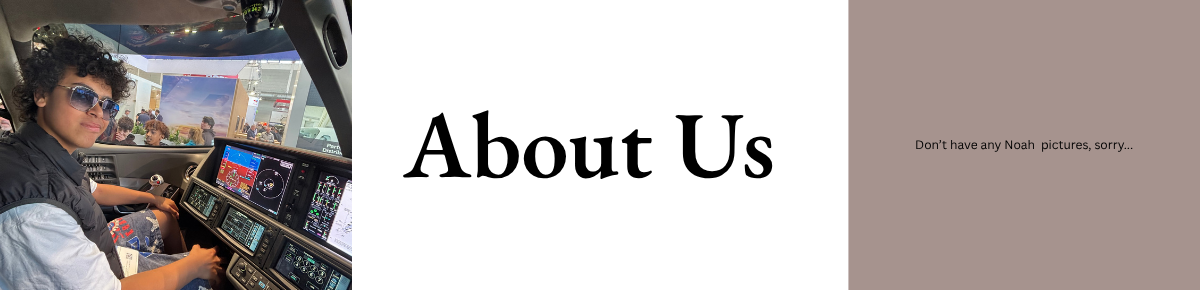
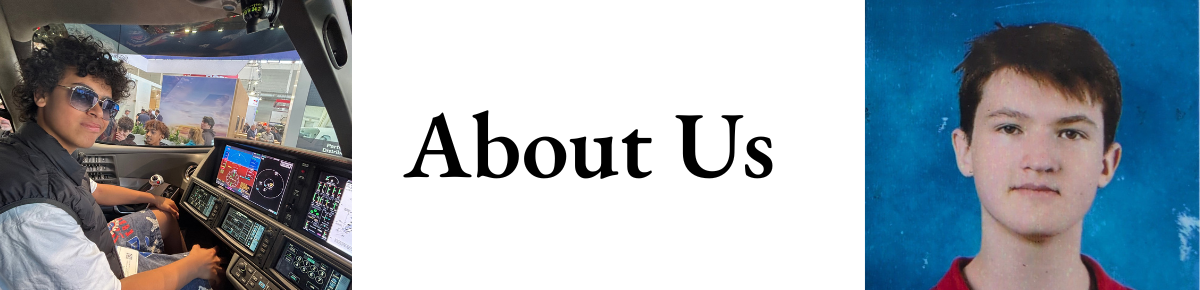
final hand in.

Changed region(s): [[0.7092, 0.0, 1.0, 1.0], [0.6167, 0.5586, 0.6475, 0.5897], [0.3392, 0.5276, 0.37, 0.5586]]

diff --git a/website-getstarted.html b/website-getstarted.html
@@ -20,65 +20,34 @@
                 <h2>Download Fleeter</h2>
                 <p>Ready to take control? Download Fleeter now and experience the ultimate remote locking solution. Click the button below to get started.</p>
                 <button class="download-button">
-                    <a href="https://github.com/resyntax"><i class="fa fa-download"></i> Download Now</a>
+                    <a href="login.html"><i class="fa fa-download"></i> Start Now!</a>
                 </button>
             </div>
             <div class="wiki">
                 <div class="wiki-step">
                     <h2>What is Fleeter?</h2>
-                    <p>Fleeter is a lightweight, real-time remote device management system designed to let an administrator monitor and control a fleet of computers from a single web-based dashboard. The core idea is simple: you have a set of machines you want to manage, and you want to be able to see their status and lock or unlock their screens instantly, from anywhere on the network, without physically touching them.</p>
-                    <p>The name "fleet" refers to the collection of managed devices. Each device in the fleet runs a small background agent that keeps it connected to a central server. The administrator connects to that same server through a web dashboard and issues commands. Everything happens in real time over a persistent WebSocket connection, meaning there is no polling, no page refreshing, and no noticeable delay between sending a command and seeing it take effect on the target machine.</p> 
+                    <p>Fleeter came about because of a need to remotely control a group of class computers. We were unhappy with the existing apps and decided to replicate the DFG systems, in a more professional way than what we are used to. Enforcers (admins) can connect to Fleet devices and block their screens.</p> 
                 </div>
                 <div class="divider">
                     <hr>
                 </div>
                 <div class="wiki-step">
-                    <h2>Architecture Overview</h2>
-                    <p>Fleeter is split into three distinct components that each play a specific role. They are FleeterManager, FleeterServer, and FleeterPanel. These three pieces are designed to work together but remain independent — each one can be developed, updated, or replaced without breaking the others, as long as the communication protocol between them stays consistent.</p>
-                    <p>The general flow is as follows. FleeterManager runs on each managed device and stays connected to FleeterServer. FleeterPanel is opened by the administrator in a browser and also connects to FleeterServer. The server sits in the middle and routes information between the two sides. The administrator never communicates directly with the managed devices — everything goes through the server.</p>
-                    <h2>Components</h2>
-                    <h3>FleeterManager</h3>
-                    <p>FleeterManager is the client agent. It is a Python application that is installed and run on every machine you want to manage. Once started, it reads a configuration file to find the server address, loads an authentication token, and opens a persistent WebSocket connection to the server on the /fleet namespace.</p>
-                    <p>From that point on, FleeterManager does two things on a continuous loop. First, it sends a heartbeat to the server every second. This heartbeat is a small message containing the device's current blocked status — essentially the machine checking in to say "I am here and this is my current state." Second, it listens for incoming control commands from the server. When a command arrives telling it to block, it suppresses all keyboard and mouse input using the pynput library and simultaneously launches a full-screen dark window using tkinter to cover the display. When a command arrives telling it to unblock, it reverses both of those actions.</p>
-                    <p>The blocking mechanism is intentionally layered. Input suppression alone might not be enough if the user finds a way to interact with the system through another means, so the visual overlay reinforces it. The overlay runs in a completely separate process rather than a thread, which means it is resilient — even if the main application encounters an issue, the blocking window stays up until explicitly told to close.</p>
-                    <p>Authentication is handled through JWT tokens. Each device has a token file stored locally in the res/ directory. When connecting to the server, FleeterManager passes this token as part of the connection handshake. The server verifies it against a database of registered devices before allowing the connection. If the token is invalid or expired, the connection is refused.</p>
-                    <p>FleeterManager will automatically attempt to reconnect if the server goes down or the connection drops. The reconnection interval is configurable in res/config.ini.</p>
-                    <h3>FleeterServer</h3>
-                    <p>FleeterServer is the backbone of the system. It is an asynchronous Python server built on Socket.IO and Uvicorn. It runs locally on port 3030 and handles all communication between FleeterManager instances and FleeterPanel. It does not have any HTTP endpoints — all communication is event-based over WebSocket.</p>
-                    <p>The server maintains two namespaces. The /fleet namespace is where managed devices connect. The /enforcer namespace is where the administrator's dashboard connects. These two namespaces are kept separate so that fleet devices and admin clients never directly interact with each other — the server mediates everything.</p>
-                    <p>When a fleet device sends a heartbeat, the server receives it, updates that device's state in memory, and forwards the heartbeat to any connected enforcer clients. This is how the dashboard gets live status updates. When an enforcer client sends a fleet_control command, the server looks up the target devices, finds their active socket sessions, and forwards the command to each one as a control event. The fleet devices receive it and act on it immediately.</p>
-                    <p>Device state is kept in memory in a structure called SessionTracker. This means it is not persisted to disk — if the server restarts, all session state is lost and devices need to reconnect to re-establish their presence. Connected devices are tracked by both their socket session ID and their fleet device ID, allowing lookups from either direction.</p>
-                    <p>The server also manages two separate databases. One is for fleet device registration and JWT token management. The other is for admin user authentication, storing usernames and Argon2-hashed passwords. Both are SQLite databases. A command-line tool called fleeter_cli.py is provided for managing these databases, registering new devices, generating tokens, and setting up the server's cryptographic keys.</p>
-                    <h3>FleeterPanel</h3>
-                    <p>FleeterPanel is the administrator's dashboard. It is a web application built with HTML, CSS, and Python via PyScript. PyScript allows Python code to run directly in the browser using WebAssembly, which means the dashboard logic is written in Python rather than JavaScript, with the exception of the Socket.IO connection which relies on the JavaScript Socket.IO client library loaded from a CDN.</p>
-                    <p>The dashboard consists of two pages. The login page asks for the server IP address, an email, and a password. On submission, it attempts to connect to the server's /enforcer namespace. If the connection succeeds, the server IP is saved to the browser's localStorage and the user is redirected to the main dashboard. If it fails, an error is shown.</p>
-                    <p>The main dashboard page connects to the server on load and begins listening for heartbeat events forwarded from fleet devices. Each time a heartbeat arrives from a device that has not been seen before, a new tile is generated dynamically and added to the grid. Each time a heartbeat arrives from a known device, the tile's status indicator is updated in real time. Tiles are colour-coded by index and display the device ID and current status.</p>
-                    <p>Clicking a tile flips it over with a 3D animation and opens a sidebar panel on the right side of the screen. The sidebar displays the device's full ID, its current status, and a block or unblock button depending on its current state. Pressing the button sends a fleet_control event to the server targeting that specific device, which then relays it as a control command to the fleet agent running on that machine. The sidebar and tile status update immediately to reflect the new state without waiting for the next heartbeat.</p>
-                </div>
-                <div class="divider">
-                    <hr>
-                </div>
-                <div class="wiki-step">
-                    <h2>Communication Protocol</h2>
-                    <p>All communication in Fleeter uses the Socket.IO protocol over WebSocket. The following events define the entire protocol contract.</p>
-                    <p>On the /fleet namespace, fleet devices send a heartbeat event every second with the payload {"blocked": bool}. The server receives this and forwards it to enforcer clients as {"device_id": string, "blocked": bool}. The server also sends a control event to fleet devices when triggered by an enforcer command. The payload is {"blocked": bool}, and the device acts on it immediately.</p>
-                    <p>On the /enforcer namespace, the dashboard sends a fleet_control event to issue commands. The payload structure is {"devices": [device_id_1, device_id_2, ...], "orders": {"control": {"blocked": true or false}}}. The devices array specifies which machines to target. The orders dictionary specifies what commands to send — the key becomes the event name sent to the fleet device, and the value becomes the payload. This design means the protocol is extensible: new command types can be added simply by defining new keys in orders, as long as FleeterManager is updated to handle them.</p>
-                    <p>Authentication on the /fleet namespace is enforced through JWT tokens passed in the Socket.IO auth field at connection time. Authentication on the /enforcer namespace is defined in the server but is not yet enforced in the current implementation, meaning any client can connect to it without credentials.</p>
-                </div>
-                <div class="divider">
-                    <hr>
-                </div>
-                <div class="wiki-step">
-                    <h2>Setup and Deployment</h2>
-                    <p>To deploy Fleeter, the server must be set up first. This involves running the CLI tool to generate SSL certificates, create the JWT keypair, and initialise both databases. Fleet devices must be registered by UUID using the CLI, and a token file must be generated for each one and distributed to the corresponding machine. The FleeterManager application on each machine must have its config.ini pointing to the correct server address.</p>
-                    <p>FleeterPanel does not require installation. It is a static web application that can be opened directly in a browser. The server IP is entered at login time, making it portable — the same dashboard files can be used to connect to any Fleeter server by simply entering a different IP address.</p>    
-                </div>
-                <div class="divider">
-                    <hr>
-                </div>
-                <div class="wiki-step">    
-                    <h2>Summary</h2>
-                    <p>Fleeter is a practical, event-driven remote device management system built around a simple protocol. A background agent on each managed machine maintains a live connection to a central server and reports its state every second. An administrator opens a web dashboard that connects to the same server, receives those status updates in real time, and can lock or unlock any machine with a single click. The architecture is deliberately minimal — three components, one protocol, and a clear separation of responsibilities between them.</p>
+                    <h2>Fleeter Components</h2>
+                    <h3>Server</h3>
+                    <p>Fleeter Server is the core of Fleeter. It is where both the Enforcers and the Fleet connect and manages information exchange between the two. It is made up of custom and off the shelf solutions.</p>
+                    <p>Fleeter app is an asynchronous socket.io server that handles inbound and outbound traffic.</p>
+                    <p>Keycloak is an authentication server that verifies credentials of enforcers.</p>
+                    <p>Postgres stores the Keycloak data.</p>
+                    <p>nginx proxies all this traffic into one port to permit easier management and connection attempts. This is all managed by a compose instance (podman and docker compatible).</p>
+                    <p>The off the shelf solutions were intentionally chosen as this is how many corporations operate. Programming everything from scratch is useful for learning, but a product's only value is how it functions. Specialised software is often more secure and well maintained.</p>
+
+                    <h3>Manager</h3>
+                    <p>Managers manage the Fleet by running on the devices. It is a simple asynchronous socket.io client that connects via the /fleet namespace. The client is authenticated with a JWT token encrypted and issued by the server; it contains key connection info.</p>
+                    <p>To block the devices, a tkinter (chosen for compatibility) window is used as a visual block and pynput halts mouse and keyboard input. Managers send a heartbeat to the server every second, notifying it of their status.</p>
+
+                    <h3>Panel</h3>
+                    <p>The panel is a python based web app running on pyscript, a cutting edge WASM based javascript alternative. It however does rely on the socket.io javascript client. It is portable and can be used locally or remotely.</p>
+                    <p>To authenticate with the Fleeter Server, it connects to the exposed keycloak instance and uses user credentials to issue a token, which it then passes to the socket.io connection request. It communicates to the server on the /enforcer namespace.</p>
                 </div>
             </div>
         </div>

diff --git a/website-about.html b/website-about.html
@@ -26,8 +26,8 @@
                         <h2>Matthias Muhl</h2>
                     </div>
                     <div class="dev-text">
-                        <p>Matthias is a software developer with a passion for creating innovative solutions to complex problems. With a background in computer science and a knack for thinking outside the box, Matthias has been instrumental in the development of Fleeter, bringing his expertise in network programming and security to the project.</p>
-                        <p>When he's not coding, Matthias enjoys exploring new technologies, contributing to open-source projects, and sharing his knowledge with the developer community. His dedication to creating user-friendly and efficient software has been a driving force behind the success of Fleeter.</p>
+                        <p>Matthias is a newbie to the development world, but with already a solid background in scripts like HTML and CSS, as well as a genuine interest in web development, he therefore fits perfectly into this project's UI development.</p>
+                        <p>When he's not coding, Matthias enjoys taking time for his other hobbies, like video games, tennis, reading and flying light aircraft.</p>
                     </div>
                 </section>
                 <section>
@@ -36,8 +36,7 @@
                         <h2>Noah M?</h2>
                     </div>
                     <div class="dev-text">
-                        <p>Noah is a software developer with a passion for creating innovative solutions to complex problems. With a background in computer science and a knack for thinking outside the box, Noah has been instrumental in the development of Fleeter, bringing his expertise in network programming and security to the project.</p>
-                        <p>When he's not coding, Noah enjoys exploring new technologies, contributing to open-source projects, and sharing his knowledge with the developer community. His dedication to creating user-friendly and efficient software has been a driving force behind the success of Fleeter.</p>
+                        <p>Noah is a hobbyist programmer who wants to use and apply his skills in the future.</p>
                     </div>
                 </section>
             </div>

diff --git a/login.html b/login.html
@@ -1,4 +1,3 @@
-<!--Commit 29/05: This Page grew up and is no longer a mockup. Added the Socketio and pyscript libraries figuring it out along pyodide is a hastle, and I still don't quite understand them right now. I'll have to dig in. I also added a logo. This page is likely to not be modified further in the forseeable future.-->
 <!DOCTYPE html>
 <html lang="en">
 <head>
@@ -32,12 +31,12 @@
                     <div class="error-message" id="ipError">Please enter a valid IP</div>
                 </div>
                 <div class="form-group">
-                    <label for="email">Email Address</label>
+                    <label for="email">Username</label>
                     <div class="input-with-icon">
-                        <i class="fa fa-envelope"></i>
-                        <input type="email" id="email" class="form-control" placeholder="Enter your email" required>
+                        <i class="fa fa-user"></i>
+                        <input type="text" id="email" class="form-control" placeholder="Enter your username" required>
                     </div>
-                    <div class="error-message" id="emailError">Please enter a valid email address</div>
+                    <div class="error-message" id="emailError">Please enter a valid username</div>
                 </div>
                 <div class="divider"></div>
                 <div class="form-group">
@@ -51,7 +50,7 @@
                             </div>
                         </button>
                     </div>
-                    <div class="error-message" id="passwordError">I'm sure you can think of something more creative you imbecile</div>
+                    <div class="error-message" id="passwordError">Please enter your password.</div>
                 </div>
                 <button type="submit" class="button" id="loginButton">
                     <i class="fa fa-sign-in"></i>

diff --git a/login.css b/login.css
@@ -1,4 +1,3 @@
-/*Commit 29/05: Didn't update the CSS here, likely never will*/
 :root {
     --primary-color:#570987;
     --secondary-color:#41cbf9;
@@ -61,7 +60,7 @@ body {
     position: absolute;
     width: 300px;
     height: 300px;
-    background: rgba(197, 198, 254, 0.5); /* accent color added manually because fuck me*/
+    background: rgba(197, 198, 254, 0.5);
     border-radius: 50%;
     top: -100px;
     right: -100px;
@@ -72,7 +71,7 @@ body {
     position: absolute;
     width: 300px;
     height: 300px;
-    background: rgba(197, 198, 254, 0.5); /* accent color added manually because fuck me*/
+    background: rgba(197, 198, 254, 0.5);
     border-radius: 50%;
     top: -100px;
     right: -100px;
@@ -111,7 +110,7 @@ h2{
 .form-group label{
     display: block;
     margin-bottom: 8px;
-    font-weight: 500; /* don't ask me what ts does*/
+    font-weight: 500;
     color: var(--dark-text-color);
 }
 
@@ -169,7 +168,7 @@ h2{
     right: 15px;
     top: 50%;
     transform: translateY(-50%);
-    cursor: pointer; /* makes it look all clicky */
+    cursor: pointer;
     color: var(--gray-text-color);
 }
 
@@ -183,7 +182,7 @@ h2{
     border-radius: var(--border-radius);
     font-size: 18px;
     font-weight: 600;
-    cursor: pointer; /*clicky click*/
+    cursor: pointer;
     transition: background-color 0.3s ease;
     margin-bottom: 15px;
 }

diff --git a/login.py b/login.py
@@ -1,14 +1,14 @@
 import js
+import asyncio
 from pyodide.ffi import create_proxy, to_js
 from pyscript import window, document
 from urllib.parse import urlencode
 
-#Should run when the user hits "Sign In":
+def sign_in(event):
+    event.preventDefault()
+    asyncio.ensure_future(_sign_in_async(event))
 
-print("hello")
-
-async def sign_in(event):
-    event.preventDefault()  # Stops the form from submitting and refreshing the page
+async def _sign_in_async(event):
 
     ip       = document.getElementById("ip").value.strip()
     email    = document.getElementById("email").value.strip()
@@ -37,7 +37,6 @@ async def sign_in(event):
     btn.textContent = "Connecting..."
     btn.disabled = True
     
-    #Asking Keycloak for a tokenn
     print("[Login] Requesting token from Keycloak...")
     token_url = f"http://{ip}:7777/keycloak/realms/fleeter-server/protocol/openid-connect/token"
     body= urlencode({
@@ -45,6 +44,7 @@ async def sign_in(event):
         "client_id": "fleeter-panel",
         "username": email,
         "password": password,
+        "scope": "openid profile",
     })
 
     try:
@@ -66,7 +66,6 @@ async def sign_in(event):
         document.getElementById("ipError").textContent = "Failed to authenticate with Keycloak."
         return
     
-    #Connect to Socketio with the token 
     print("[Login] Connecting to Socket.IO server...")
     socket = window.io(f"http://{ip}:7777/enforcer", to_js({
         "path":        "/socket",
@@ -74,8 +73,6 @@ async def sign_in(event):
         "timeout":      5000,
         "auth":         {"token": token}
     }))
-
-    print("hello")
 
     def on_connect():
         print("[Login] Connected! Redirecting to dashboard...")

diff --git a/dashboard.py b/dashboard.py
@@ -2,8 +2,7 @@ import js
 from pyscript import window, document
 from pyodide.ffi import create_proxy, to_js
 
-#Demo mode: Creates a set of tiles and ignores the server connection. For testing the ui only. 
-DEMO_MODE = True
+DEMO_MODE = False
 
 DEMO_DEVICES = [
     {"device_id": "a1b2c3d4e5f6g7h8", "blocked": False},
@@ -251,6 +250,7 @@ def submit_new_device(event):
         return
 
     def on_token_ready(data):
+        create_tile(device_id, False)
         download_token(device_id, data.new_jwt)
         set_modal_feedback("Device added! Token downloaded.", "success")
         btn.disabled = False
